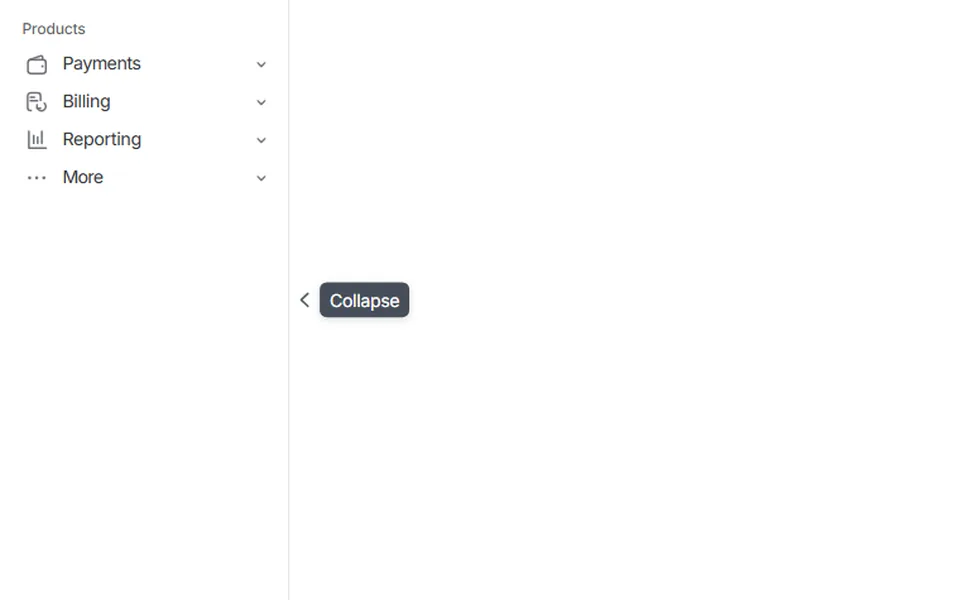
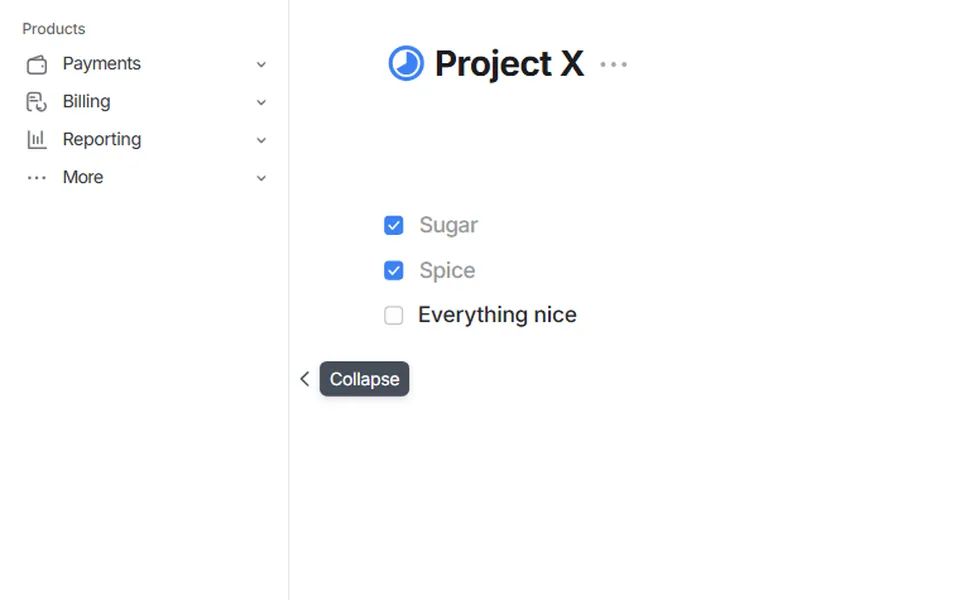
Merge Sidebar Toggle and Progress Pie into one card; new Vinyl and sidebar previews

diff --git a/main.js b/main.js
@@ -16,16 +16,10 @@ const ITEMS = [
     poster: 'previews/box.webp',
   },
   {
-    name: 'Sidebar Toggle',
+    name: 'Sidebar & Progress',
     url: `${BASE}/ref-stripe-sidebar/`,
     poster: 'previews/stripe.webp',
     live: [760, 475],
-  },
-  {
-    name: 'Progress Pie',
-    url: `${BASE}/ref-things-progress/`,
-    poster: 'previews/things.webp',
-    live: [960, 600],
   },
   {
     name: 'Dither Tiles',

diff --git a/README.md b/README.md
@@ -8,12 +8,11 @@ Live: https://ysh4267.github.io/interactions/
 | --- | --- | --- | --- |
 | 01 | Main Page | [ysh4267.github.io](https://ysh4267.github.io/) | Original |
 | 02 | Box | [box](https://ysh4267.github.io/box/) | Original |
-| 03 | Sidebar Toggle | [ref-stripe-sidebar](https://ysh4267.github.io/ref-stripe-sidebar/) | [Stripe, Design Spells](https://designspells.com/spells/animation-when-hovering-on-the-sidebar-toggle-in-stripe) |
-| 04 | Progress Pie | [ref-things-progress](https://ysh4267.github.io/ref-things-progress/) | [Things, Design Spells](https://designspells.com/spells/progress-indicator-animation-in-things) |
-| 05 | Dither Tiles | [ref-basedash-tiles](https://ysh4267.github.io/ref-basedash-tiles/) | [Basedash, Design Spells](https://designspells.com/spells/interactive-empty-state-graphics-in-basedash) |
-| 06 | Tutorial | [tutorial](https://ysh4267.github.io/tutorial/) | Original |
-| 07 | Texture Card | [ref-textures-card](https://ysh4267.github.io/ref-textures-card/) | [godly.design 617](https://cdn.godly.design/posts/617.mp4), [Textures](https://textures.dev) |
-| 08 | Vinyl | [ref-vinyl-player](https://ysh4267.github.io/ref-vinyl-player/) | [godly.design 616](https://cdn.godly.design/posts/616.mp4) |
+| 03 | Sidebar & Progress | [ref-stripe-sidebar](https://ysh4267.github.io/ref-stripe-sidebar/) | [Stripe](https://designspells.com/spells/animation-when-hovering-on-the-sidebar-toggle-in-stripe), [Things](https://designspells.com/spells/progress-indicator-animation-in-things) (Design Spells) |
+| 04 | Dither Tiles | [ref-basedash-tiles](https://ysh4267.github.io/ref-basedash-tiles/) | [Basedash, Design Spells](https://designspells.com/spells/interactive-empty-state-graphics-in-basedash) |
+| 05 | Tutorial | [tutorial](https://ysh4267.github.io/tutorial/) | Original |
+| 06 | Texture Card | [ref-textures-card](https://ysh4267.github.io/ref-textures-card/) | [godly.design 617](https://cdn.godly.design/posts/617.mp4), [Textures](https://textures.dev) |
+| 07 | Vinyl | [ref-vinyl-player](https://ysh4267.github.io/ref-vinyl-player/) | [godly.design 616](https://cdn.godly.design/posts/616.mp4) |
 
 ## Notes
 
